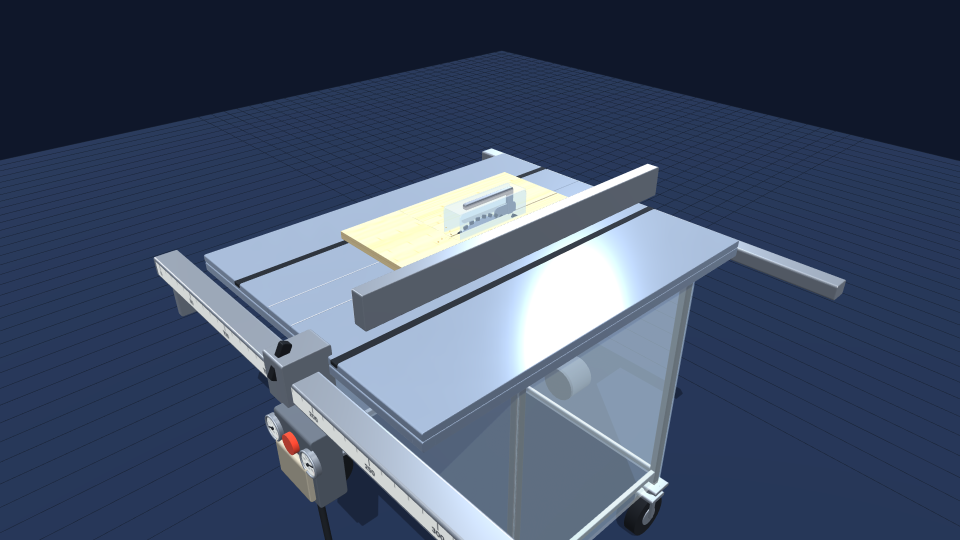
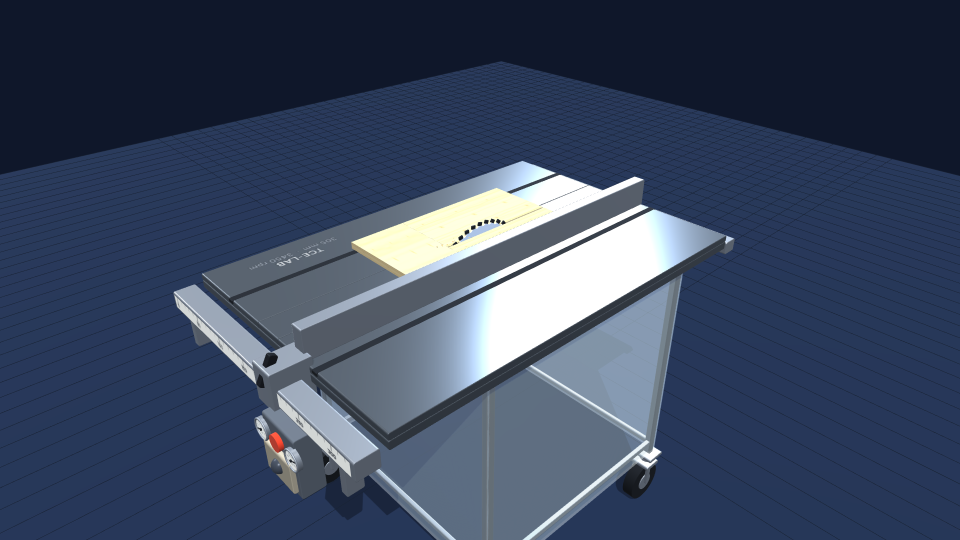
updated

Changed region(s): [[0.1562, 0.2667, 0.9062, 1.0], [0.0, 0.0889, 1.0, 0.3259]]

diff --git a/demo.html b/demo.html
@@ -62,7 +62,13 @@
             padding: 5px;
             color: gray;
         }
-        header h1 { margin: 0; font-size: 20px; font-weight: 700; letter-spacing: -.01em; }
+        header h1 { 
+            margin: 0;
+    font-size: 24px;
+    /* font-weight: 700; */
+    letter-spacing: 2px;
+    
+        }
         header p { margin: 4px 0 0; font-size: 13px; color: var(--ink-mid); font-style: italic; }
 
         /* At a 272px track, 1560px of page fits five columns (5x272 + 4x18
@@ -93,7 +99,7 @@
     font-size: 20px;
     font-weight: 700;
     letter-spacing: .12em;
-    text-transform: uppercase;
+    
     /* position: relative; */
     /* float: right; */
     /* right: -50px; */
@@ -109,15 +115,17 @@
     align-items: center;
         }
         .cardNumberText{
-            background: #dadada;
+            background: #00000012;
     width: 30px;
     height: 30px;
     line-height: 30px;
-    border-radius: 4px;
+    border-radius: 8px;
     align-items: center;
-    color: white;
+    color: #bcbcbc;
     text-align: center;
     font-size: 16px;
+    /* text-shadow: 1px 1px #919191; */
+    /* font-family: monospace;*/
         }
         .shot {
             display: block;
@@ -137,7 +145,7 @@
             width: 100%;
             height: auto;
             display: block;
-            filter: grayscale(1) contrast(1.12) sepia(.18) brightness(.94);
+            filter: grayscale(1) contrast(1.12) sepia(.30) brightness(.90);
             border-radius: 12px;
             transition: filter .12s ease-out;
             
@@ -148,7 +156,7 @@
         /* The label stays, but as a small plate at the foot of the shot rather than
            a scrim over the whole of it, so the colour underneath is still readable. */
         .shot::after {
-            content: "Open simulation";
+            content: "Run";
             position: absolute;
             left: 50%;
             bottom: 18px;
@@ -184,8 +192,19 @@
     border-radius: 5px;
     padding: 2px 7px;
         }
-        .card h2 { margin: 0; padding: 10px 9px 8px; font-size: 15px;
-                   font-weight: 700; letter-spacing: -.01em; }
+        .card h2 { 
+            margin: 0;
+    padding: 10px 9px 8px;
+    font-size: 16px;
+    font-weight: 700;
+    letter-spacing: -.01em;
+    /* font-family: cursive;
+    text-transform: lowercase; */
+    text-align: left;
+    width: 231px;
+    /* background: #dddddd; */
+    
+                }
         .body p { margin: 0; font-size: 12px; line-height: 1.55; color: var(--ink-mid); flex: 1; }
 
         /* Rule between the copy and the controls, like a printed divider */
@@ -311,7 +330,7 @@
 <body>
 
     <header>
-        <h1>BLACK & WHITE</h1>
+        <h1>Black & White</h1>
         <p>Interactive Simulations</p>
     </header>
 

diff --git a/tablesaw/app.js b/tablesaw/app.js
@@ -1839,11 +1839,18 @@ function step(dt) {
         layoutBoard();
         if (state.retT === 0) { state.done = false; newBoard(); }
     }
-    // and the motor coming up to speed. An induction motor takes a
-    // second or two to run up and it coasts for a good while after,
-    // which is exactly why the guard matters after the switch is off.
+    // Running up and running down. An induction motor takes a second or
+    // two to come up to speed, and a bare one left to coast would take
+    // the better part of a minute to stop - a 305 mm blade carries real
+    // energy, which is exactly why saws of this size are sold with an
+    // electric brake. This one has one, so the run-down is a few seconds
+    // rather than a wait: still visibly a coast, not a dead stop, but
+    // short enough that nobody sits watching it.
     const want = state.power ? 1 : 0;
-    state.startT += (want - state.startT) * Math.min(1, dt / (state.power ? 0.8 : 2.6));
+    state.startT += (want - state.startT) * Math.min(1, dt / (state.power ? 0.8 : 0.85));
+    // and it is allowed to arrive: an exponential never reaches zero on
+    // its own, so the last sliver is cut off rather than crawling
+    if (!state.power && state.startT < 0.02) state.startT = 0;
 
     // The blade's speed. Free-running it is fixed; loaded past what the
     // motor has, it droops — and a saw bogging down is a sound before it
@@ -1856,7 +1863,7 @@ function step(dt) {
     }
     const target = free * droop;
     state.rpm += (target - state.rpm) * Math.min(1, dt / 0.55);
-    if (state.rpm < 2) state.rpm = 0;
+    if (state.rpm < 25) state.rpm = 0;
     state.stalled = state.cutting && overloaded();
 
     state.spin += 2 * Math.PI * state.rpm / 60 * dt;
